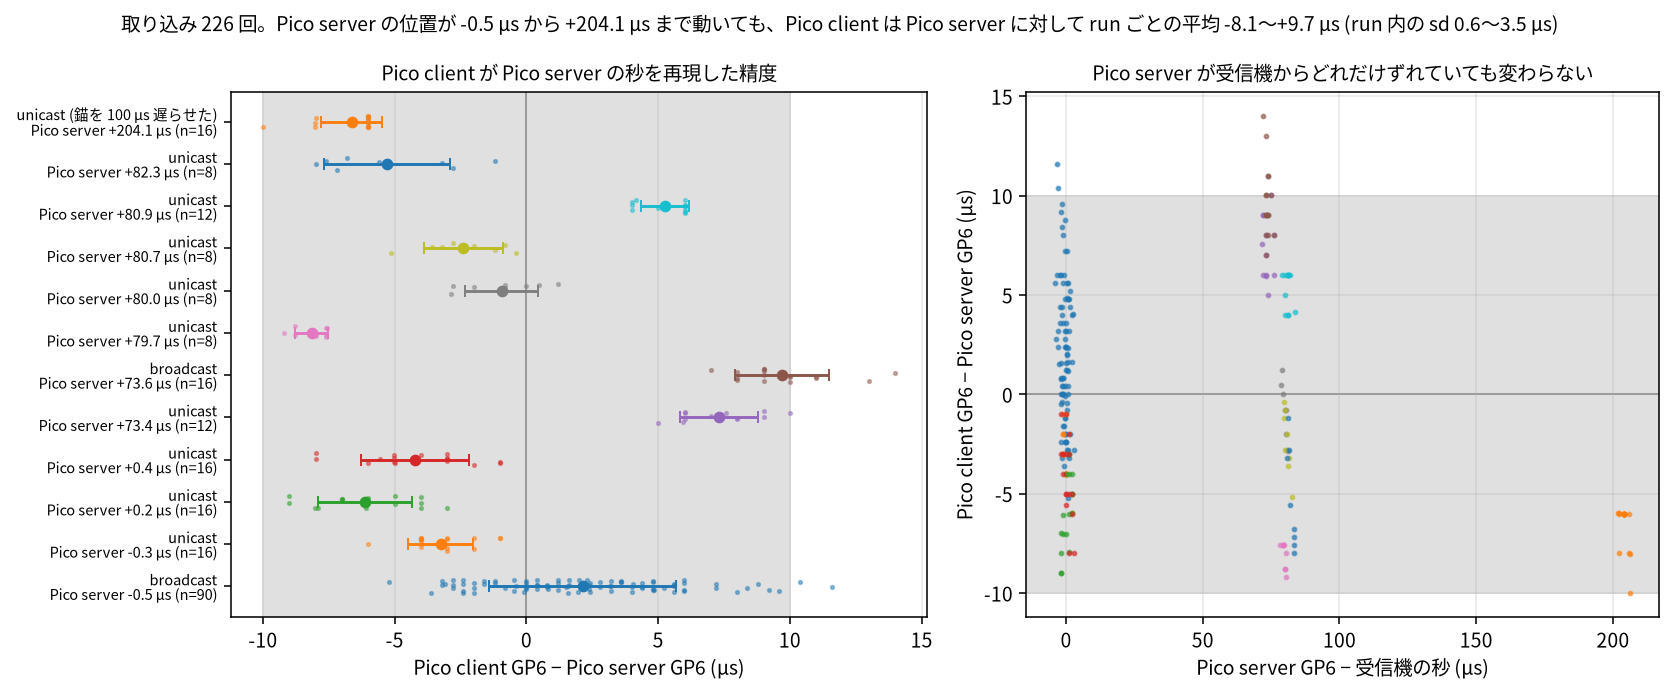
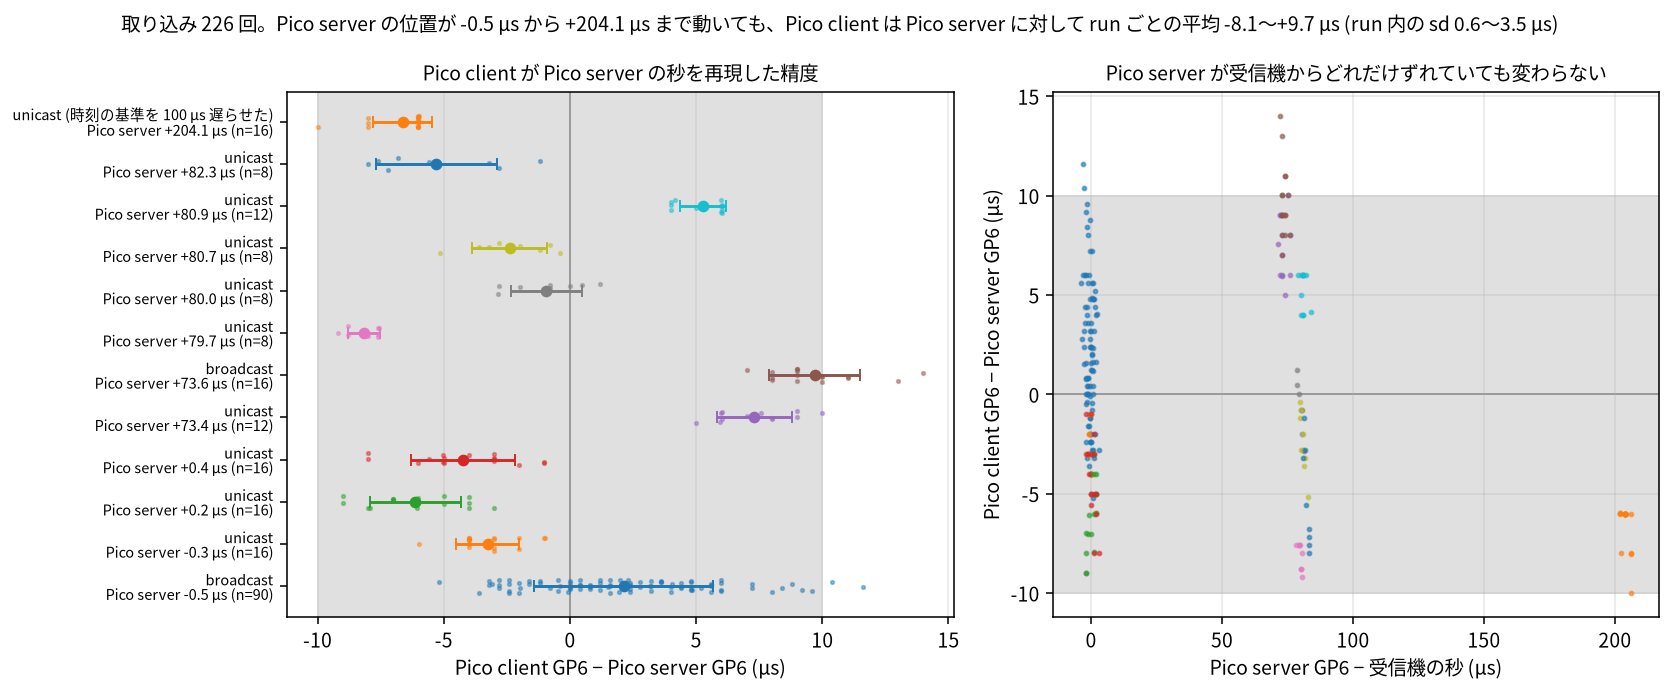
docs(pico-link-ntp): the figure legend used the invented word too
Claude-Session: https://claude.ai/code/session_019RSxURXQrEdaZnzWdFm1sE

diff --git a/docs/report/pico-link-ntp/logs/plot_link.py b/docs/report/pico-link-ntp/logs/plot_link.py
@@ -117,7 +117,7 @@ def fig_broadcast_series():
 
 
 # 1 回の取り込みで両方の 1PPS を読んだ run。server の絶対位置がばらついているのは狙って
-# そうしたのではなく、UTC の錨を PIO が捉えたエッジではなく FIFO を汲み出した時刻で取っていて、
+# そうしたのではなく、UTC の基準を、PIO が捉えたエッジではなく FIFO から取り出した時刻で取っていて、
 # 起動ごとに executor の起床順が変わるためである。ここではそれを逆に使う。
 RUNS = [
     ("pair-series.csv", "broadcast"),
@@ -131,7 +131,7 @@ RUNS = [
     ("pair-boot3.csv", "unicast"),
     ("pair-boot4.csv", "unicast"),
     ("pair-boot5.csv", "unicast"),
-    ("pair-anchor-delay.csv", "unicast (錨を 100 µs 遅らせた)"),
+    ("pair-anchor-delay.csv", "unicast (時刻の基準を 100 µs 遅らせた)"),
 ]
 
 # 垂直の設定は `scope_pair.py` が固定している (1 V/div、offset −1.5 V)。バイト 0-255 が
